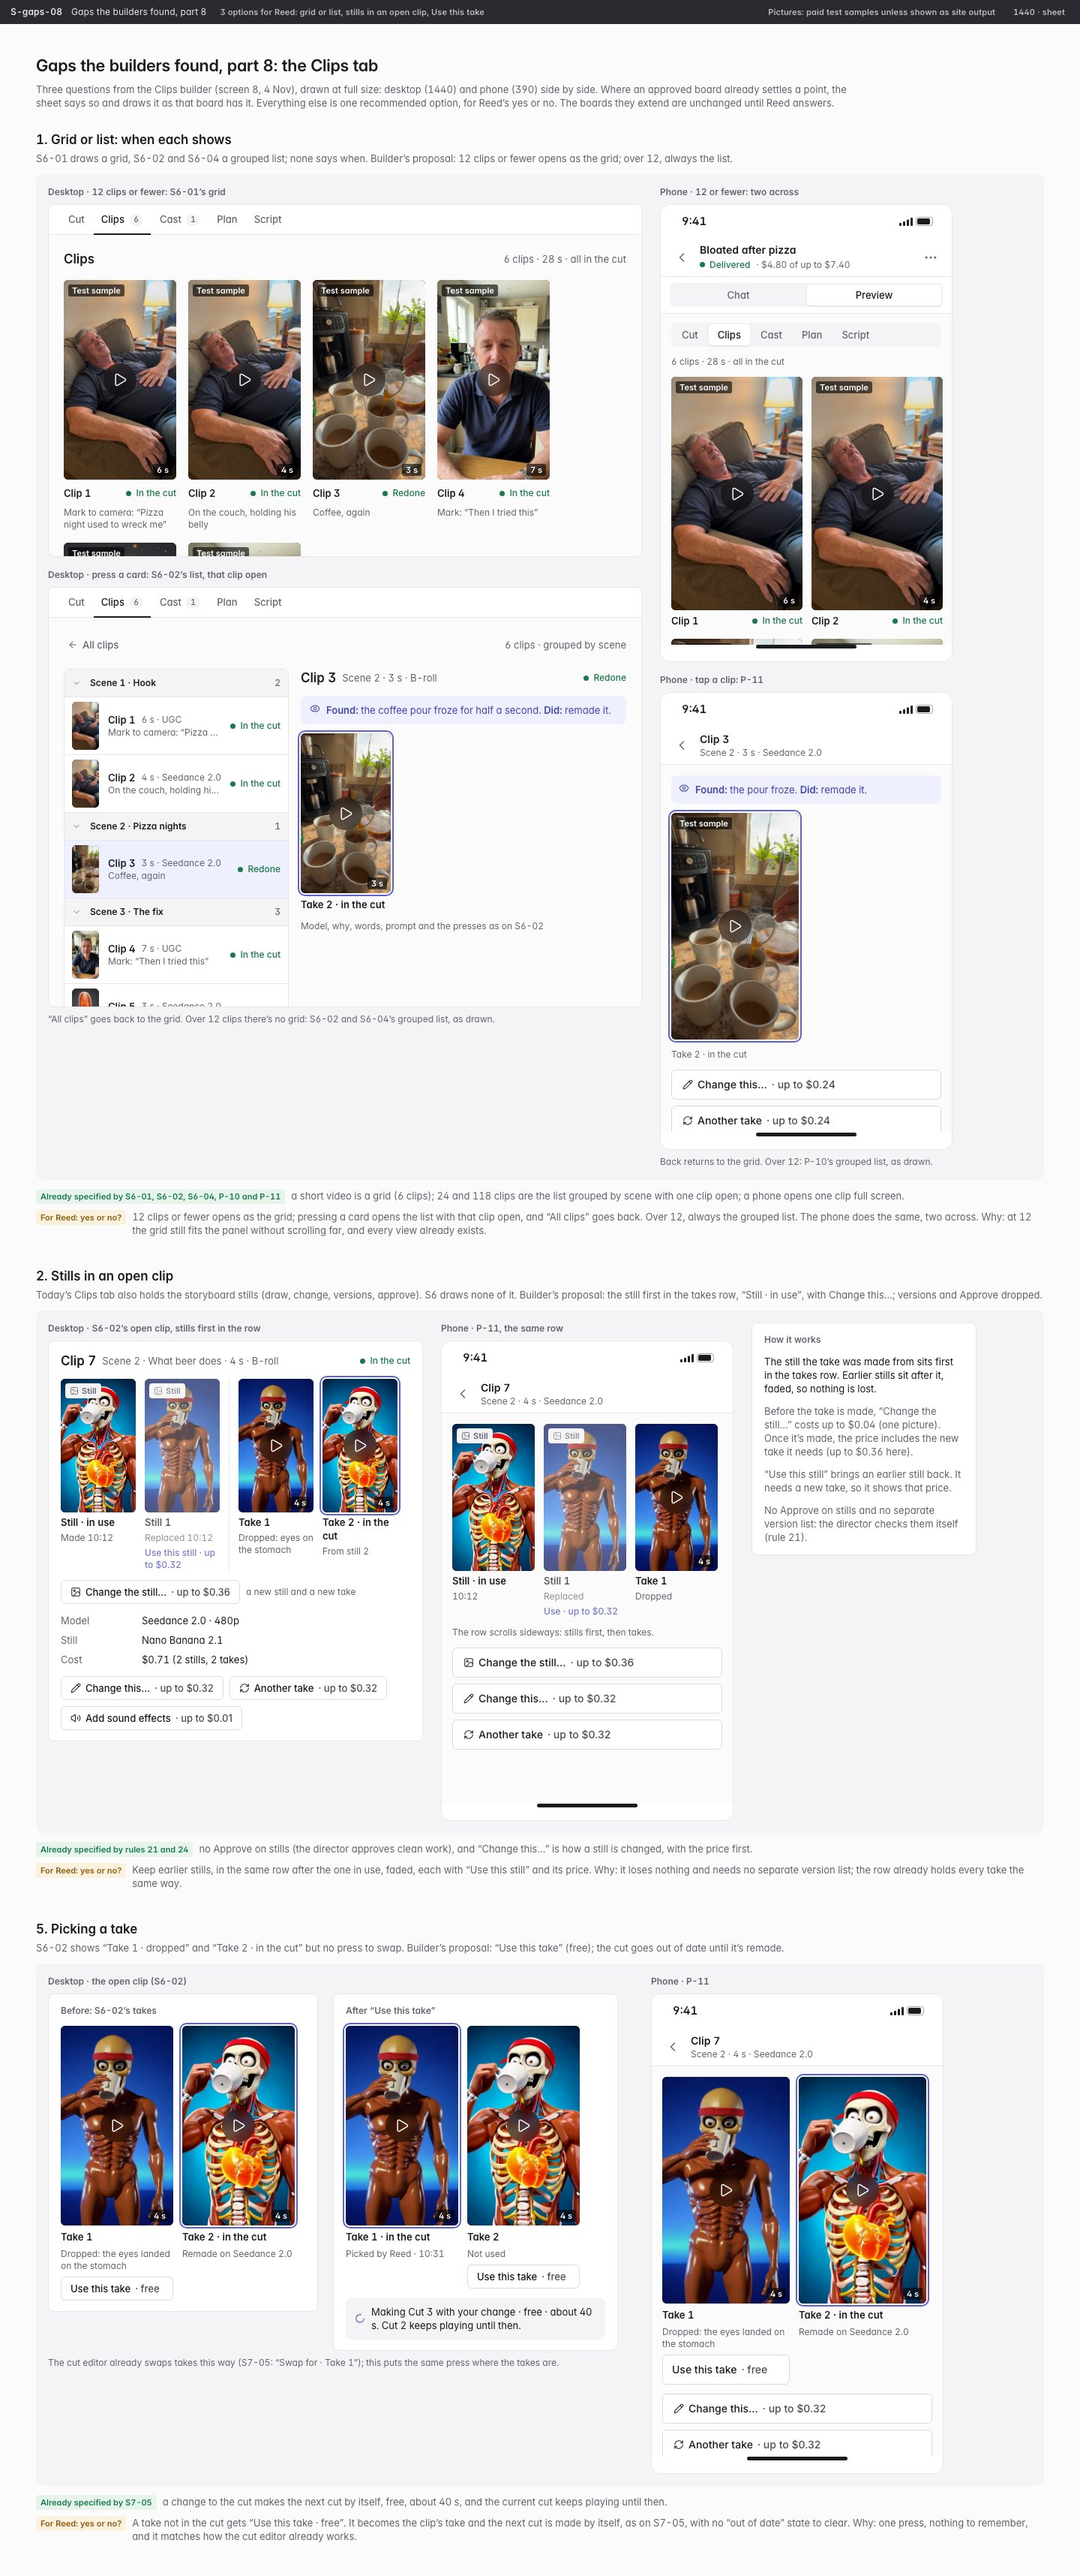
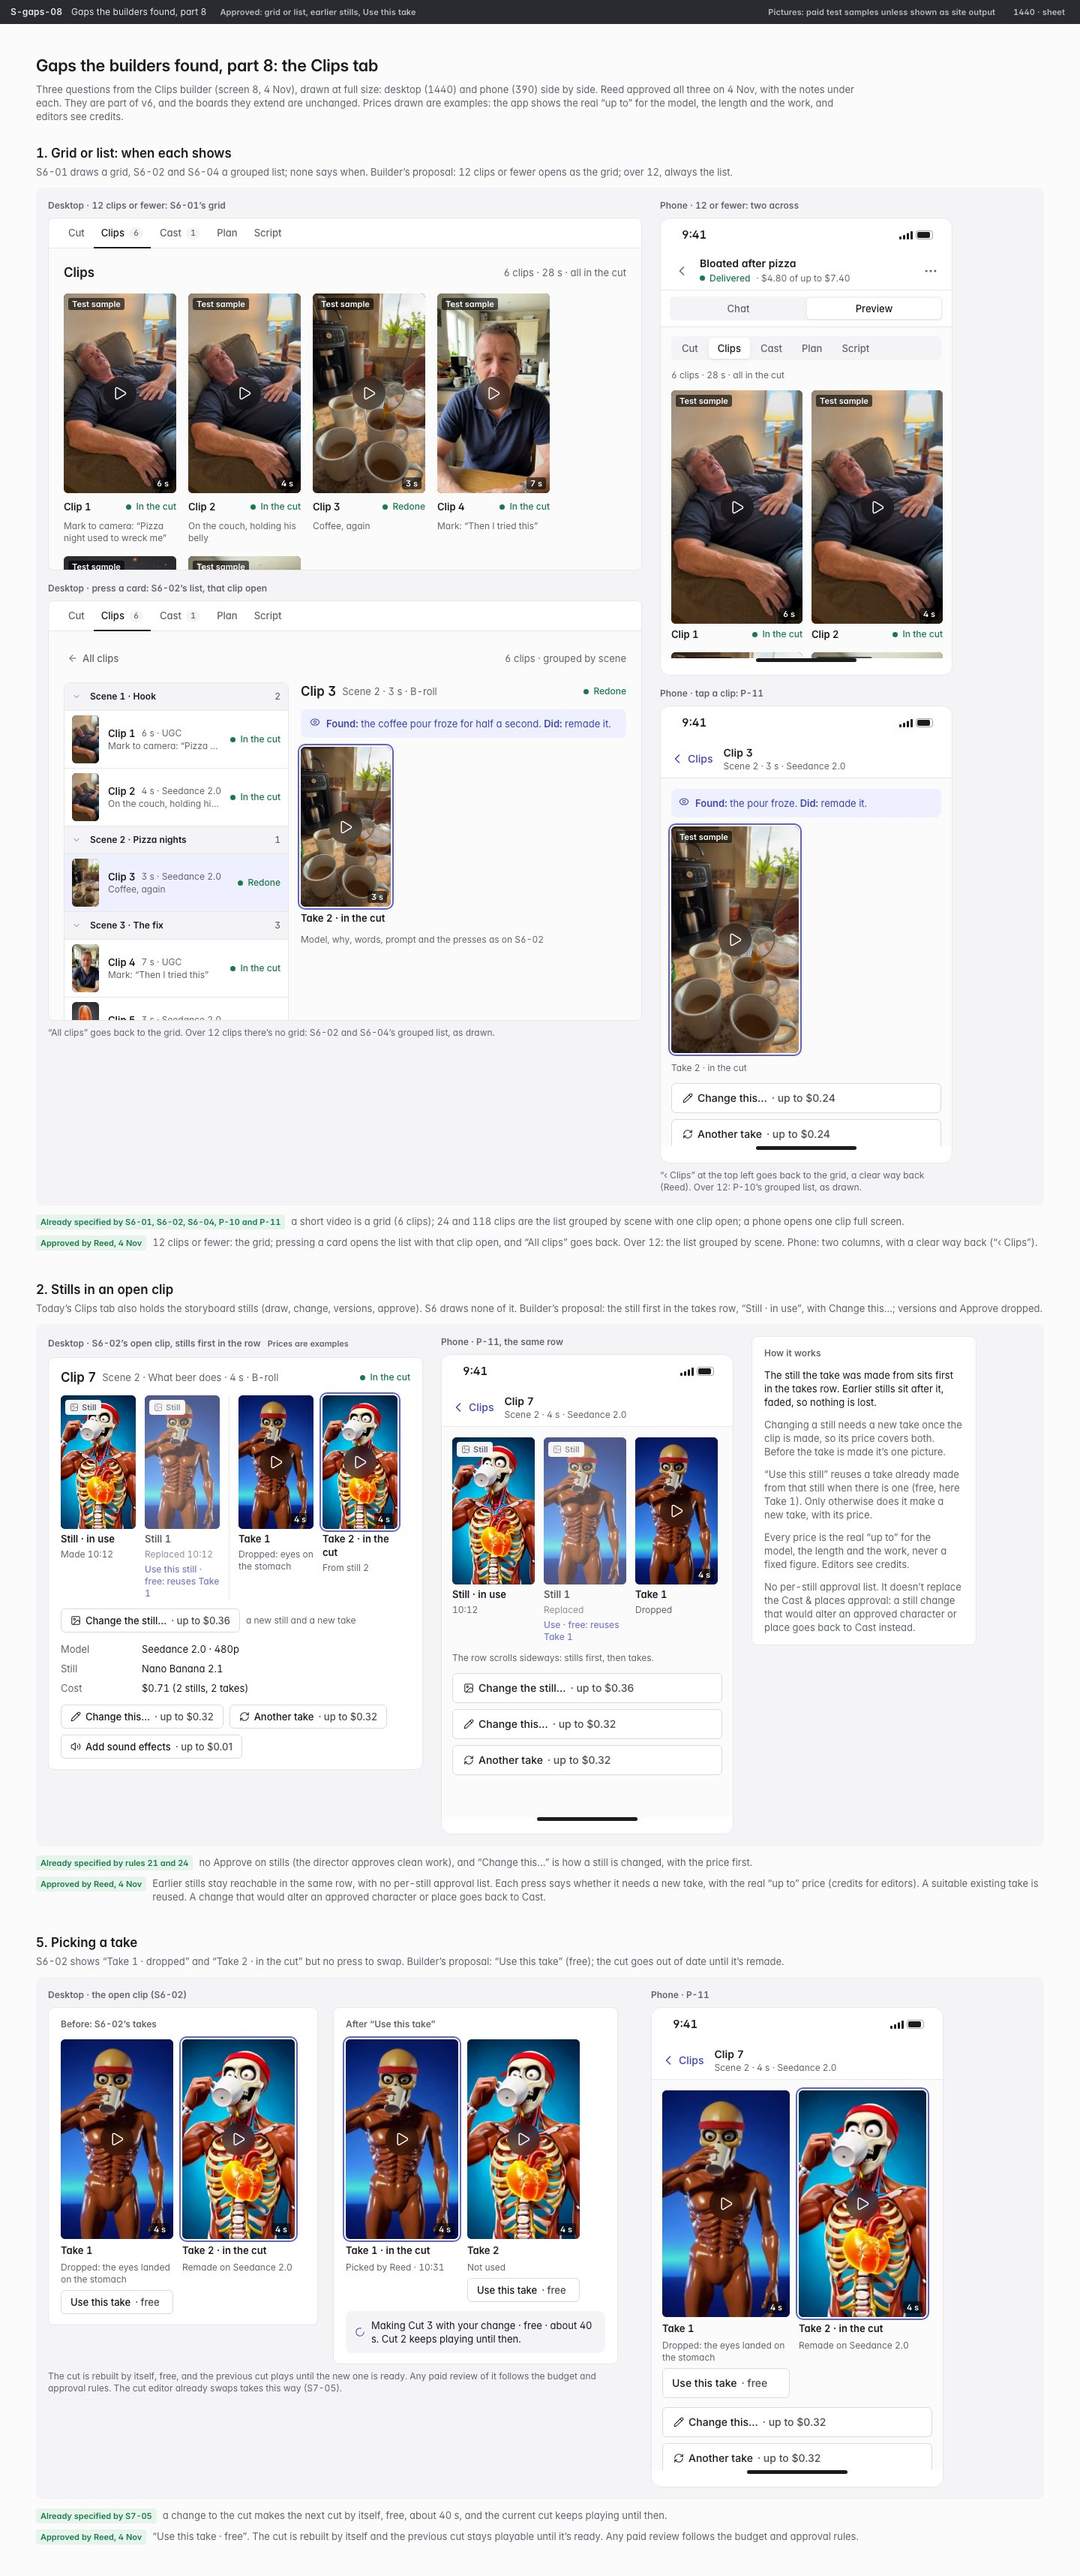
S-gaps-08: approved by Reed (4 Nov), with his notes
Phone back is a labelled "Clips"; earlier stills reuse an existing take when
one was made from them; prices are marked as examples (the app shows the real
"up to"); casting changes go back to Cast; Use this take rebuilds the cut with
the previous cut playable.

diff --git a/docs/design/v6/src/b_gaps8.py b/docs/design/v6/src/b_gaps8.py
@@ -4,7 +4,8 @@ from b_s56 import clip_row
 from b_phone import ptop, BACK, vtop
 
 W = 1344
-ASK = ("need", "For Reed: yes or no?")
+BACKC = f'<span class="row g1 accent-t w5" style="font-size:14px;padding-right:6px">{ic("chevron-left","s20")}Clips</span>'
+EX = '<span class="tag n" style="flex:none">Prices are examples</span>'
 
 
 def cell(n, title, ask, drawn, verdicts, w=W):
@@ -65,13 +66,13 @@ PTOP = vtop("Bloated after pizza", status("ok", "Delivered"), on="Preview").repl
 PSEG = '<div class="seg" style="flex:none"><span>Cut</span><span class="on">Clips</span><span>Cast</span><span>Plan</span><span>Script</span></div>'
 pgrid = "".join(f'<div class="col g1">{media(i,175,311,play=True,dur=d)}<div class="row g2"><span class="t-sm w6">Clip {n+1}</span><span class="grow"></span>{status(*s)}</div></div>' for n, (i, s, d) in enumerate(zip(IMGS[:4], STS, DURS)))
 pG = phone(PTOP, f'<div class="col g2" style="padding:12px 14px">{PSEG}<span class="t-xs muted" style="margin-top:4px">6 clips · 28 s · all in the cut</span></div><div style="display:grid;grid-template-columns:1fr 1fr;gap:14px 12px;padding:0 14px;flex:none">{pgrid}</div>', h=610)
-pO = phone(ptop(BACK, "Clip 3", "", "Scene 2 · 3 s · Seedance 2.0"),
+pO = phone(ptop(BACKC, "Clip 3", "", "Scene 2 · 3 s · Seedance 2.0"),
            f'''<div class="col g3" style="padding:14px"><div class="row g2 start t-sm" style="padding:10px;background:var(--accent-soft);color:var(--accent-text);border-radius:8px">{ic("eye","s14")}<span><b class="w6">Found:</b> the pour froze. <b class="w6">Did:</b> remade it.</span></div>
              <div class="row g3">{media("ug1",170,302,play=True,cls="sel")}</div><span class="t-xs muted">Take 2 · in the cut</span>
              <div class="col g2">{btn("Change this…","lg","pencil","$0.24")}{btn("Another take","lg","refresh-cw","$0.24")}</div></div>''', h=610)
 g1 = f'''<div class="row g6 start">
   <div class="col g4">{side("Desktop · 12 clips or fewer: S6-01’s grid", deskG, w=792)}{side("Desktop · press a card: S6-02’s list, that clip open", deskL, "“All clips” goes back to the grid. Over 12 clips there’s no grid: S6-02 and S6-04’s grouped list, as drawn.", 792)}</div>
-  <div class="col g4">{side("Phone · 12 or fewer: two across", pG, w=390)}{side("Phone · tap a clip: P-11", pO, "Back returns to the grid. Over 12: P-10’s grouped list, as drawn.", 390)}</div></div>'''
+  <div class="col g4">{side("Phone · 12 or fewer: two across", pG, w=390)}{side("Phone · tap a clip: P-11", pO, "“‹ Clips” at the top left goes back to the grid, a clear way back (Reed). Over 12: P-10’s grouped list, as drawn.", 390)}</div></div>'''
 
 # ---------- 2. Stills in an open clip ----------
 def tile(img, label, sub, w=100, h=178, play=False, cls="", faded=False, press=""):
@@ -82,7 +83,7 @@ def tile(img, label, sub, w=100, h=178, play=False, cls="", faded=False, press="
     return f'<div class="col g1" style="width:{w}px;{"opacity:.7" if faded else ""}">{m}<span class="t-sm w6">{label}</span><span class="t-xs muted">{sub}</span>{p}</div>'
 
 
-row2 = (tile("pk1", "Still · in use", "Made 10:12") + tile("pk1pv", "Still 1", "Replaced 10:12", faded=True, press="Use this still · up to $0.32")
+row2 = (tile("pk1", "Still · in use", "Made 10:12") + tile("pk1pv", "Still 1", "Replaced 10:12", faded=True, press="Use this still · free: reuses Take 1")
         + '<div style="width:1px;align-self:stretch;background:var(--border)"></div>'
         + tile("pk1pv", "Take 1", "Dropped: eyes on the stomach", play=True) + tile("pk1", "Take 2 · in the cut", "From still 2", play=True, cls="sel"))
 detail2 = f'''<div class="row g2"><span class="t-lg">Clip 7</span><span class="t-sm muted">Scene 2 · What beer does · 4 s · B-roll</span><span class="grow"></span>{status("ok","In the cut")}</div>
@@ -91,18 +92,19 @@ detail2 = f'''<div class="row g2"><span class="t-lg">Clip 7</span><span class="t
   <div class="kv" style="grid-template-columns:96px 1fr"><span class="k">Model</span><span>Seedance 2.0 · 480p</span><span class="k">Still</span><span>Nano Banana 2.1</span><span class="k">Cost</span><span>$0.71 (2 stills, 2 takes)</span></div>
   <div class="row g2 wrap">{btn("Change this…", "", "pencil", "$0.32")}{btn("Another take", "", "refresh-cw", "$0.32")}{btn("Add sound effects", "", "volume-2", "$0.01")}</div>'''
 desk2 = box(detail2, 500)
-prow = (tile("pk1", "Still · in use", "10:12", 110, 196) + tile("pk1pv", "Still 1", "Replaced", 110, 196, faded=True, press="Use · up to $0.32")
+prow = (tile("pk1", "Still · in use", "10:12", 110, 196) + tile("pk1pv", "Still 1", "Replaced", 110, 196, faded=True, press="Use · free: reuses Take 1")
         + tile("pk1pv", "Take 1", "Dropped", 110, 196, play=True) + tile("pk1", "Take 2 · in the cut", "", 110, 196, play=True, cls="sel"))
-p2 = phone(ptop(BACK, "Clip 7", "", "Scene 2 · 4 s · Seedance 2.0"),
+p2 = phone(ptop(BACKC, "Clip 7", "", "Scene 2 · 4 s · Seedance 2.0"),
            f'''<div class="col g3" style="padding:14px"><div class="row g3 start" style="overflow:hidden;flex-wrap:nowrap">{prow}</div><span class="t-xs muted">The row scrolls sideways: stills first, then takes.</span>
              <div class="col g2">{btn("Change the still…","lg","image","$0.36")}{btn("Change this…","lg","pencil","$0.32")}{btn("Another take","lg","refresh-cw","$0.32")}</div></div>''', h=640)
 why2 = box('''<span class="t-xs w6 muted">How it works</span>
   <span class="t-sm">The still the take was made from sits first in the takes row. Earlier stills sit after it, faded, so nothing is lost.</span>
-  <span class="t-sm muted">Before the take is made, “Change the still…” costs up to $0.04 (one picture). Once it’s made, the price includes the new take it needs (up to $0.36 here).</span>
-  <span class="t-sm muted">“Use this still” brings an earlier still back. It needs a new take, so it shows that price.</span>
-  <span class="t-sm muted">No Approve on stills and no separate version list: the director checks them itself (rule 21).</span>''', 300)
+  <span class="t-sm muted">Changing a still needs a new take once the clip is made, so its price covers both. Before the take is made it’s one picture.</span>
+  <span class="t-sm muted">“Use this still” reuses a take already made from that still when there is one (free, here Take 1). Only otherwise does it make a new take, with its price.</span>
+  <span class="t-sm muted">Every price is the real “up to” for the model, the length and the work, never a fixed figure. Editors see credits.</span>
+  <span class="t-sm muted">No per-still approval list. It doesn’t replace the Cast &amp; places approval: a still change that would alter an approved character or place goes back to Cast instead.</span>''', 300)
 g2 = f'''<div class="row g6 start">
-  {side("Desktop · S6-02’s open clip, stills first in the row", desk2, w=500)}
+  {side("Desktop · S6-02’s open clip, stills first in the row " + EX, desk2, w=500)}
   {side("Phone · P-11, the same row", p2, w=390)}
   {why2}</div>'''
 
@@ -116,24 +118,24 @@ def takes(before=True, w=150, h=266):
 after_bar = f'<div class="row g2 t-sm" style="padding:10px 12px;background:var(--surface-2);border-radius:8px">{ic("loader-circle","s14 accent-t")}<span>Making Cut 3 with your change · free · about 40 s. Cut 2 keeps playing until then.</span></div>'
 desk5 = f'''<div class="row g5 start">{box(f'<span class="t-xs w6 muted">Before: S6-02’s takes</span>{takes(True)}', 360)}
   {box(f'<span class="t-xs w6 muted">After “Use this take”</span>{takes(False)}{after_bar}', 380)}</div>'''
-p5 = phone(ptop(BACK, "Clip 7", "", "Scene 2 · 4 s · Seedance 2.0"),
+p5 = phone(ptop(BACKC, "Clip 7", "", "Scene 2 · 4 s · Seedance 2.0"),
            f'''<div class="col g3" style="padding:14px"><div class="row g3 start">{takes(True, 170, 302).replace('class="row g3 start"', 'class="row g3 start" style="flex-wrap:nowrap"')}</div>
              <div class="col g2">{btn("Change this…","lg","pencil","$0.32")}{btn("Another take","lg","refresh-cw","$0.32")}</div></div>''', h=640)
 g5 = f'''<div class="row g6 start">
-  {side("Desktop · the open clip (S6-02)", desk5, "The cut editor already swaps takes this way (S7-05: “Swap for · Take 1”); this puts the same press where the takes are.", 780)}
+  {side("Desktop · the open clip (S6-02)", desk5, "The cut is rebuilt by itself, free, and the previous cut plays until the new one is ready. Any paid review of it follows the budget and approval rules. The cut editor already swaps takes this way (S7-05).", 780)}
   {side("Phone · P-11", p5, w=390)}</div>'''
 
-sheet = f'''<div class="col g2" style="margin-bottom:28px"><span class="t-2xl">Gaps the builders found, part 8: the Clips tab</span><span class="t-sm muted" style="max-width:1100px">Three questions from the Clips builder (screen 8, 4 Nov), drawn at full size: desktop (1440) and phone (390) side by side. Where an approved board already settles a point, the sheet says so and draws it as that board has it. Everything else is one recommended option, for Reed’s yes or no. The boards they extend are unchanged until Reed answers.</span></div>
+sheet = f'''<div class="col g2" style="margin-bottom:28px"><span class="t-2xl">Gaps the builders found, part 8: the Clips tab</span><span class="t-sm muted" style="max-width:1100px">Three questions from the Clips builder (screen 8, 4 Nov), drawn at full size: desktop (1440) and phone (390) side by side. Reed approved all three on 4 Nov, with the notes under each. They are part of v6, and the boards they extend are unchanged. Prices drawn are examples: the app shows the real “up to” for the model, the length and the work, and editors see credits.</span></div>
   <div class="col g8" style="row-gap:40px">
   {cell(1, "Grid or list: when each shows", "S6-01 draws a grid, S6-02 and S6-04 a grouped list; none says when. Builder’s proposal: 12 clips or fewer opens as the grid; over 12, always the list.", g1,
         [("ok", "Already specified by S6-01, S6-02, S6-04, P-10 and P-11", "a short video is a grid (6 clips); 24 and 118 clips are the list grouped by scene with one clip open; a phone opens one clip full screen."),
-         (*ASK, "12 clips or fewer opens as the grid; pressing a card opens the list with that clip open, and “All clips” goes back. Over 12, always the grouped list. The phone does the same, two across. Why: at 12 the grid still fits the panel without scrolling far, and every view already exists.")])}
+         ("ok", "Approved by Reed, 4 Nov", "12 clips or fewer: the grid; pressing a card opens the list with that clip open, and “All clips” goes back. Over 12: the list grouped by scene. Phone: two columns, with a clear way back (“‹ Clips”).")])}
   {cell(2, "Stills in an open clip", "Today’s Clips tab also holds the storyboard stills (draw, change, versions, approve). S6 draws none of it. Builder’s proposal: the still first in the takes row, “Still · in use”, with Change this…; versions and Approve dropped.", g2,
         [("ok", "Already specified by rules 21 and 24", "no Approve on stills (the director approves clean work), and “Change this…” is how a still is changed, with the price first."),
-         (*ASK, "Keep earlier stills, in the same row after the one in use, faded, each with “Use this still” and its price. Why: it loses nothing and needs no separate version list; the row already holds every take the same way.")])}
+         ("ok", "Approved by Reed, 4 Nov", "Earlier stills stay reachable in the same row, with no per-still approval list. Each press says whether it needs a new take, with the real “up to” price (credits for editors). A suitable existing take is reused. A change that would alter an approved character or place goes back to Cast.")])}
   {cell(5, "Picking a take", "S6-02 shows “Take 1 · dropped” and “Take 2 · in the cut” but no press to swap. Builder’s proposal: “Use this take” (free); the cut goes out of date until it’s remade.", g5,
         [("ok", "Already specified by S7-05", "a change to the cut makes the next cut by itself, free, about 40 s, and the current cut keeps playing until then."),
-         (*ASK, "A take not in the cut gets “Use this take · free”. It becomes the clip’s take and the next cut is made by itself, as on S7-05, with no “out of date” state to clear. Why: one press, nothing to remember, and it matches how the cut editor already works.")])}
+         ("ok", "Approved by Reed, 4 Nov", "“Use this take · free”. The cut is rebuilt by itself and the previous cut stays playable until it’s ready. Any paid review follows the budget and approval rules.")])}
   </div>'''
 
-board("S-gaps-08", "Gaps the builders found, part 8", "3 options for Reed: grid or list, stills in an open clip, Use this take", sheet, "s", h=3400)
+board("S-gaps-08", "Gaps the builders found, part 8", "Approved: grid or list, earlier stills, Use this take", sheet, "s", h=3400)
